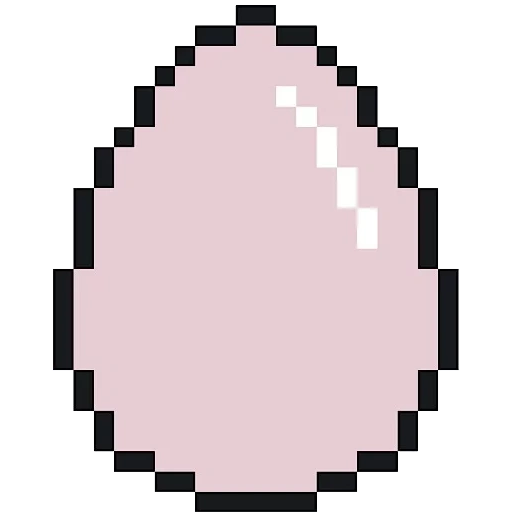
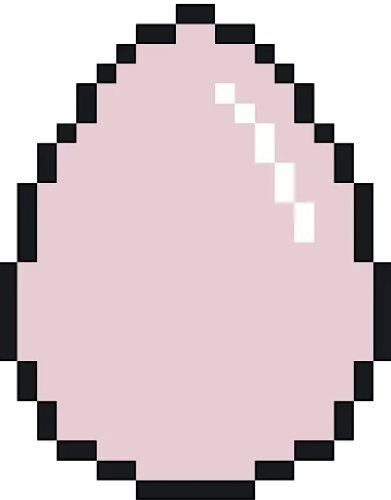
Fixed hit boxes

Changed region(s): [[0.0, 0.0, 1.0, 1.0], [0.3376, 0.9, 0.399, 1.0]]

diff --git a/core/src/com/mygdx/game/ScreenGame.java b/core/src/com/mygdx/game/ScreenGame.java
@@ -28,6 +28,7 @@ public class ScreenGame implements Screen {
 
     SolidPlatform solids[] = new SolidPlatform[22];
     Player player;
+    Gun gun;
     ArrayList<Object> objects = new ArrayList<>();
     boolean right;
     boolean left;
@@ -52,7 +53,8 @@ public class ScreenGame implements Screen {
         fps = 60;
 
         playerBullets = new Bullet[100];
-        player = new Player(new Texture("egg.png"), SCR_WIDTH / 9, SCR_HEIGHT / 5, 0, 500, SCR_WIDTH / 190, SCR_HEIGHT / 60, SCR_HEIGHT / 1800);
+        player = new Player(new Texture("justEgg.png"), SCR_WIDTH / 12.5f, SCR_HEIGHT / 5, 0, 500, SCR_WIDTH / 190, SCR_HEIGHT / 60, SCR_HEIGHT / 1800);
+        gun = new Gun(new Texture("egg_gun.png"), player.getX(), player.getY(), SCR_WIDTH / 9.5f,SCR_HEIGHT / 15);
         gwidth = SCR_WIDTH / 9;
         gheight = SCR_HEIGHT / 9.6f;
 
@@ -169,8 +171,14 @@ public class ScreenGame implements Screen {
         if (shoot) player.shoot(playerBullets);
         player.update(right, left, up, objects);
         mgg.camera.update();
+        if(gun.bodyRotation) {
+            gun.update(player.x, player.y + player.height / 5f, player.bodyRotation);
+        }
+        else {
+            gun.update(player.x + player.getWidth() - gun.getWidth(), player.y + player.height / 5f, player.bodyRotation);
+        }
         player.draw(mgg.batch);
-
+        gun.draw(mgg.batch);
 
 
         mgg.batch.draw(leftButtonTexture, mgg.camera.position.x - SCR_WIDTH/2 + 30, mgg.camera.position.y - SCR_HEIGHT/2 + 50, SCR_WIDTH / 4 / (SCR_WIDTH / SCR_HEIGHT), SCR_HEIGHT / 4);

diff --git a/core/src/com/mygdx/game/Gun.java b/core/src/com/mygdx/game/Gun.java
@@ -1,0 +1,25 @@
+package com.mygdx.game;
+
+import com.badlogic.gdx.graphics.Texture;
+import com.badlogic.gdx.graphics.g2d.Sprite;
+
+public class Gun extends Sprite {
+    float x, y, width, height;
+    boolean bodyRotation = true;
+    Gun(Texture gunTexture, float x, float y, float width, float height){
+        super(gunTexture, 0, 0, gunTexture.getWidth(), gunTexture.getHeight() );
+        this.x = x;
+        this.y = y;
+        setSize(width, height);
+
+    }
+    void update(float x, float y, boolean bodyRotation){
+        this.x = x;
+        this.y = y;
+        setPosition(x, y);
+        if(bodyRotation != this.bodyRotation){
+            flip(true, false);
+            this.bodyRotation = bodyRotation;
+        }
+    }
+}
